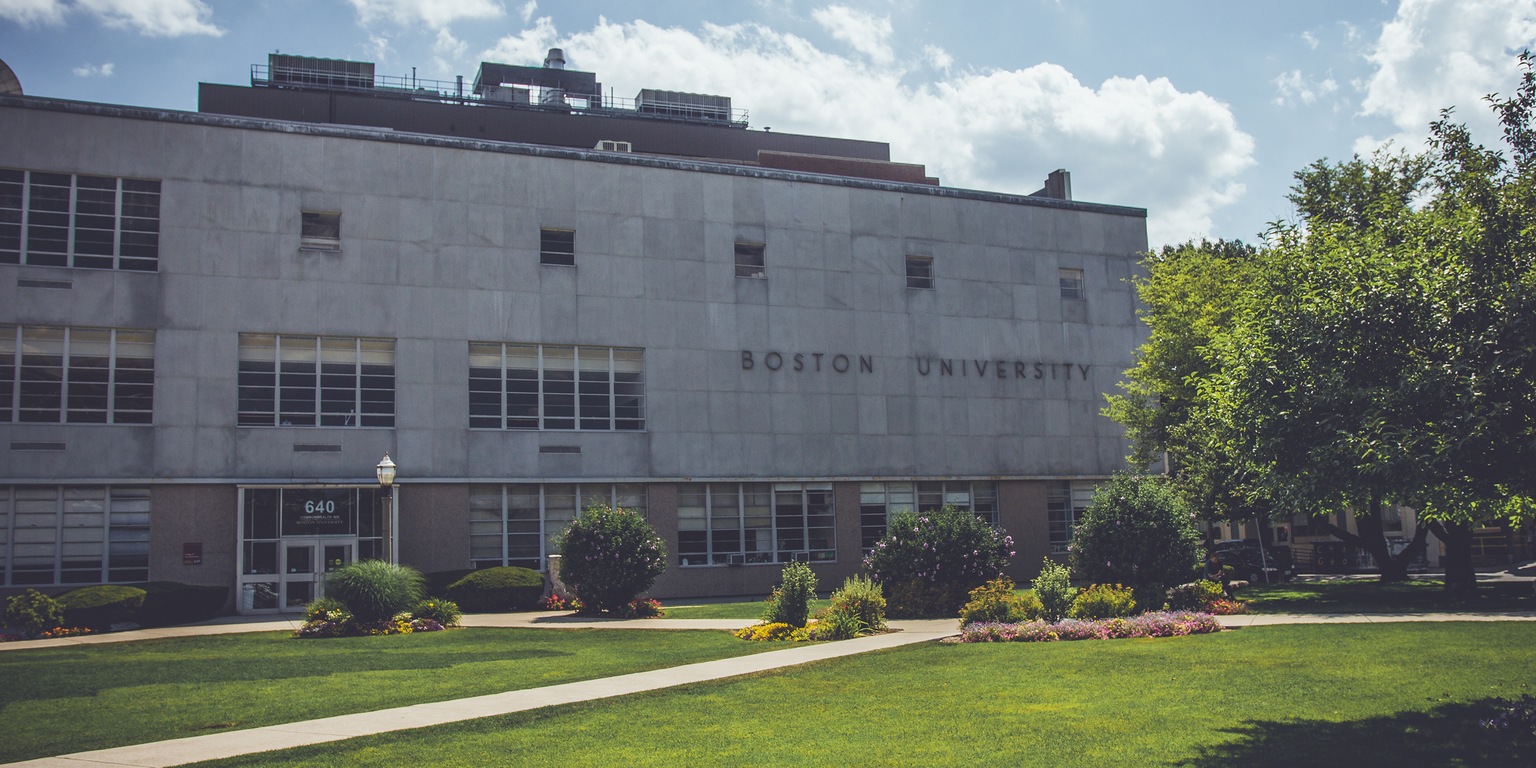
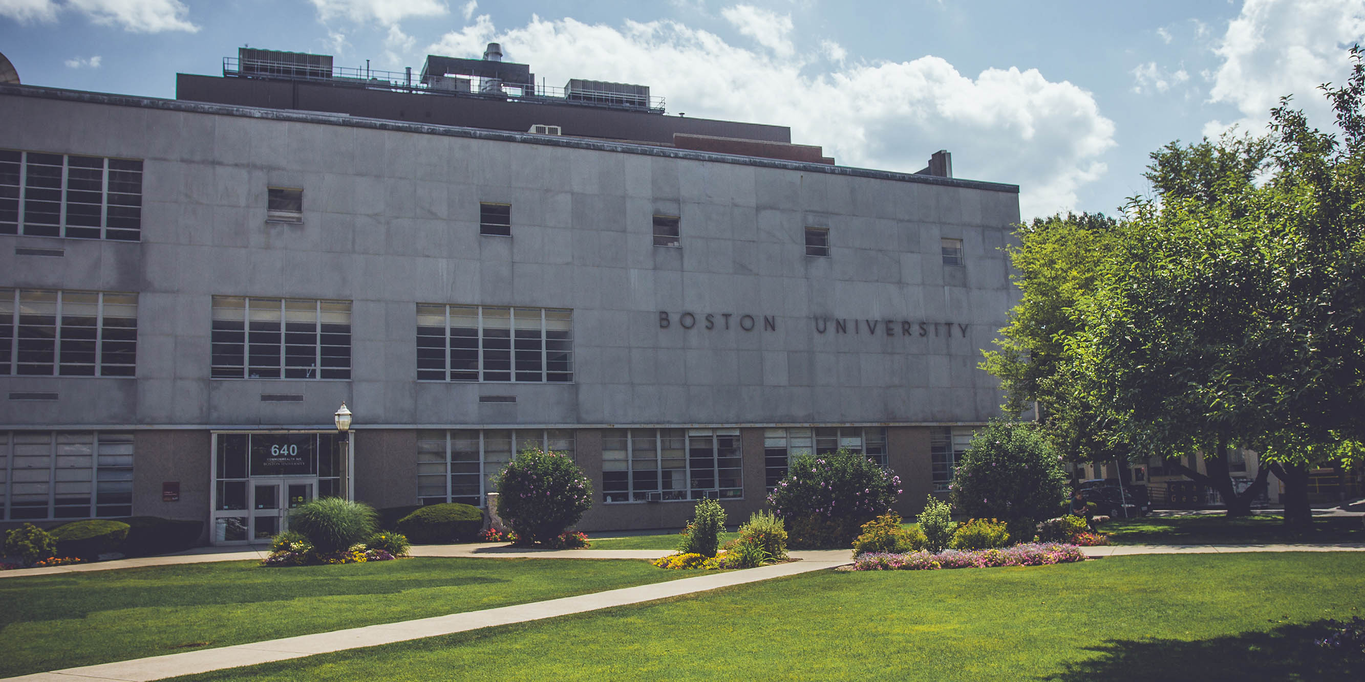
contact page image. and add images.

diff --git a/public/scss/contact.scss b/public/scss/contact.scss
@@ -4,7 +4,7 @@
 
 .background {
   /*image link -> https://flic.kr/p/rZ8kmG */
-  background: url("../img/nick/nlouie14.jpg") no-repeat center;
+  background: url("../img/nick/nlouie7.jpg") no-repeat center;
   background-size: cover;
 }
 
